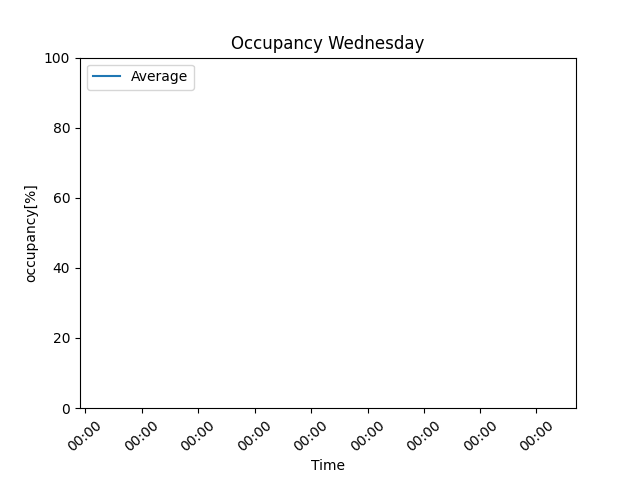
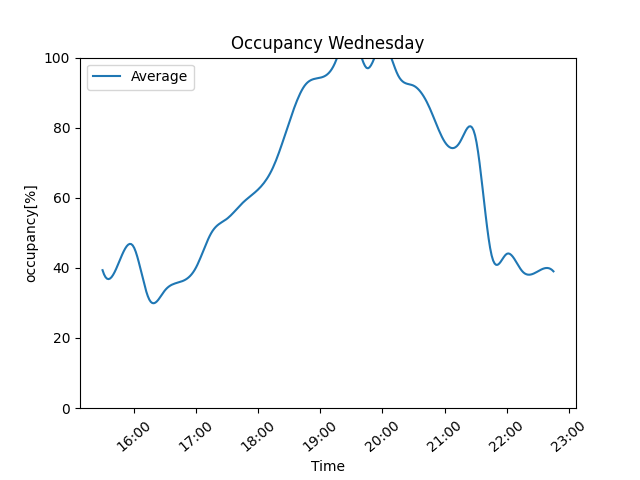
🧱 Removed all files, so we can start in another day!

diff --git a/README.md b/README.md
@@ -16,7 +16,7 @@ this is a plot of the official Visitor-Numbers of  [Studio Bloc Darmstadt](https
 |:-:|:-:|
 |<img src="./png/Working.png">|<img src="./png/Working.png">|
 |<img src="./png/Working.png">|<img src="./png/Working.png">|
-|<img src="./png/Working.png">|<img src="./png/Working.png">|
+|<img src="./png/OtherDays/DarmstadtWednesday.png">|<img src="./png/OtherDays/MannheimWednesday.png">|
 |<img src="./png/Working.png">|<img src="./png/Working.png">|
 |<img src="./png/Working.png">|<img src="./png/Working.png">|
 |<img src="./png/Working.png">|<img src="./png/Working.png">|
